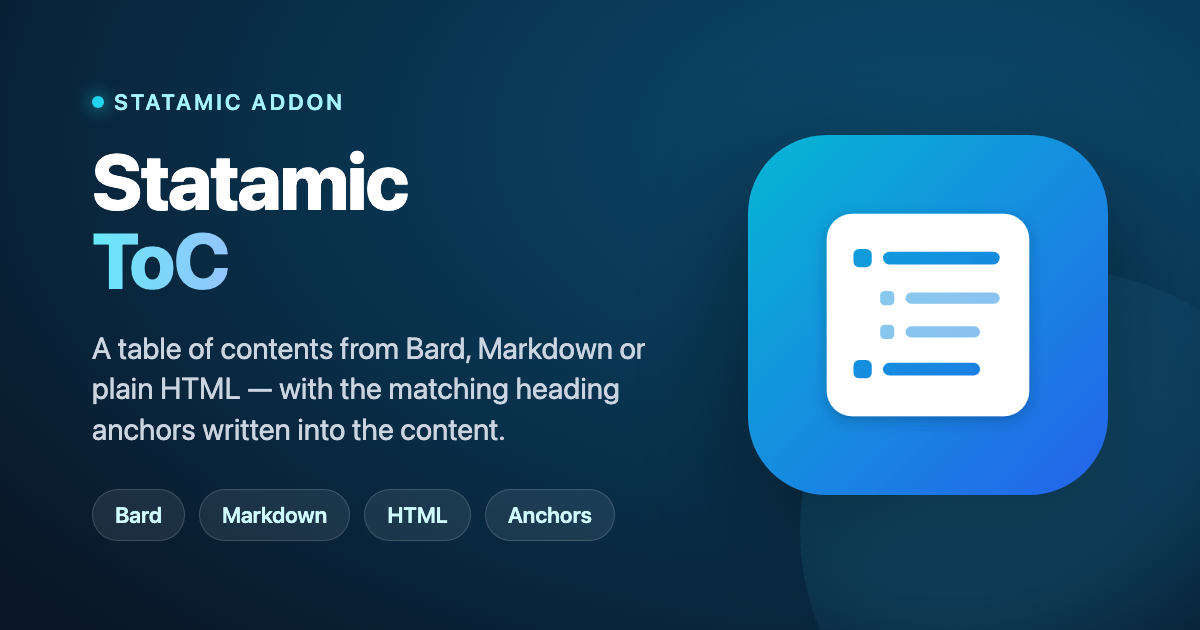
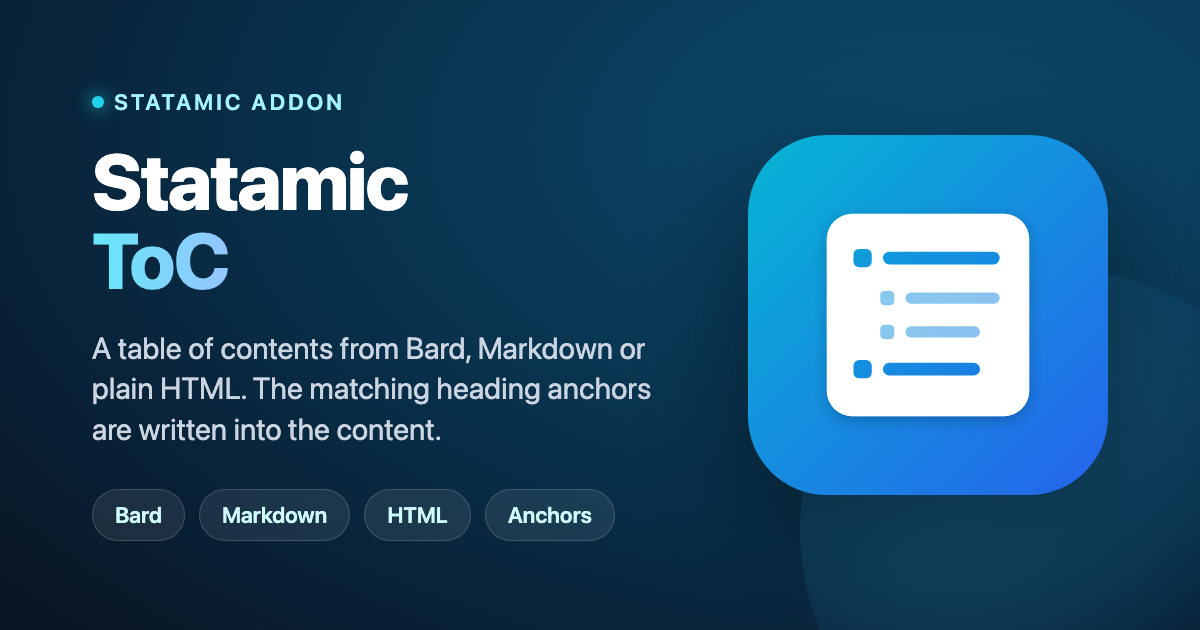
chore(art): Gedankenstrich aus Cover-Untertitel entfernen
Adrians Copy-Regel erlaubt in Marketingtexten keine Gedankenstriche.
Der Halbgeviertstrich im Untertitel ist durch einen Punkt und einen zweiten Satz aufgeloest,
nicht durch einen Bindestrich ersetzt.

Cover-PNG aus cover.html neu gerendert, Masse unveraendert bei 1200x630.

Changed region(s): [[0.0925, 0.6635, 0.4317, 0.7238], [0.2158, 0.6032, 0.555, 0.6333]]

diff --git a/art/cover.html b/art/cover.html
@@ -35,7 +35,7 @@
     <div class="copy">
       <span class="eyebrow"><span class="dot"></span>Statamic Addon</span>
       <h1>Statamic<br><span class="accent">ToC</span></h1>
-      <p class="sub">A table of contents from Bard, Markdown or plain HTML &mdash; with the matching heading anchors written into the content.</p>
+      <p class="sub">A table of contents from Bard, Markdown or plain HTML. The matching heading anchors are written into the content.</p>
       <div class="badges">
         <span class="badge">Bard</span>
         <span class="badge">Markdown</span>
